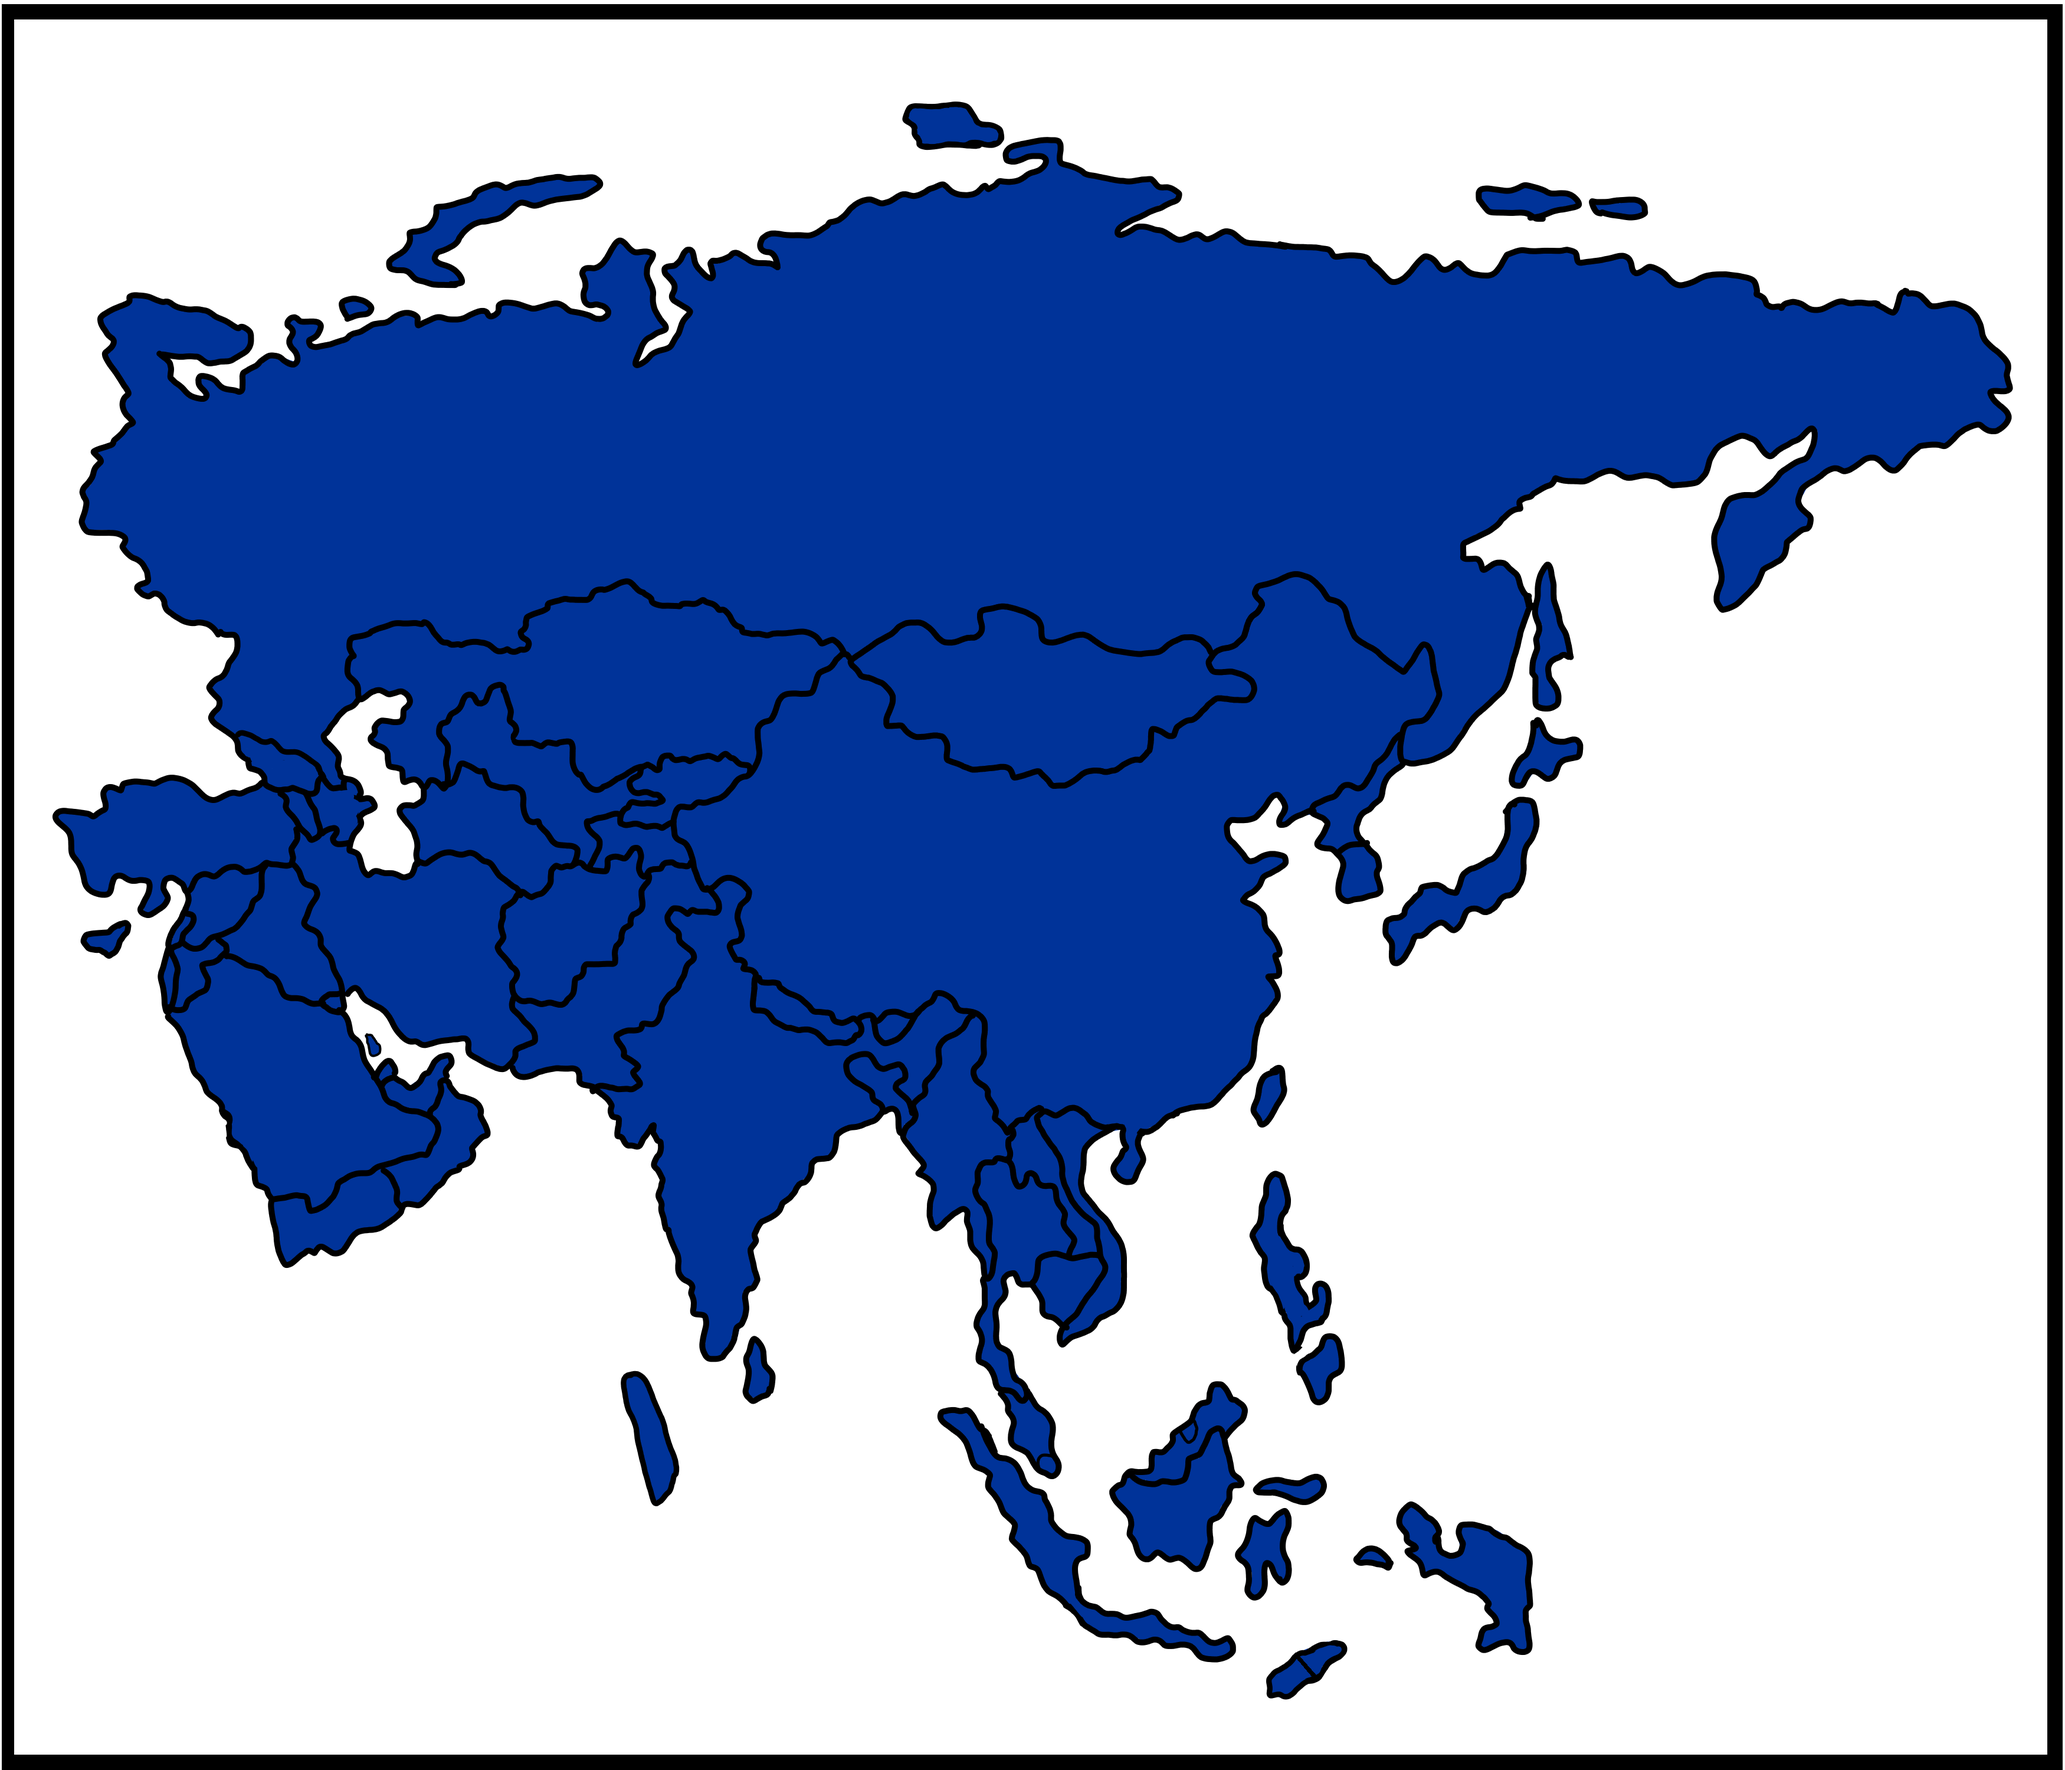
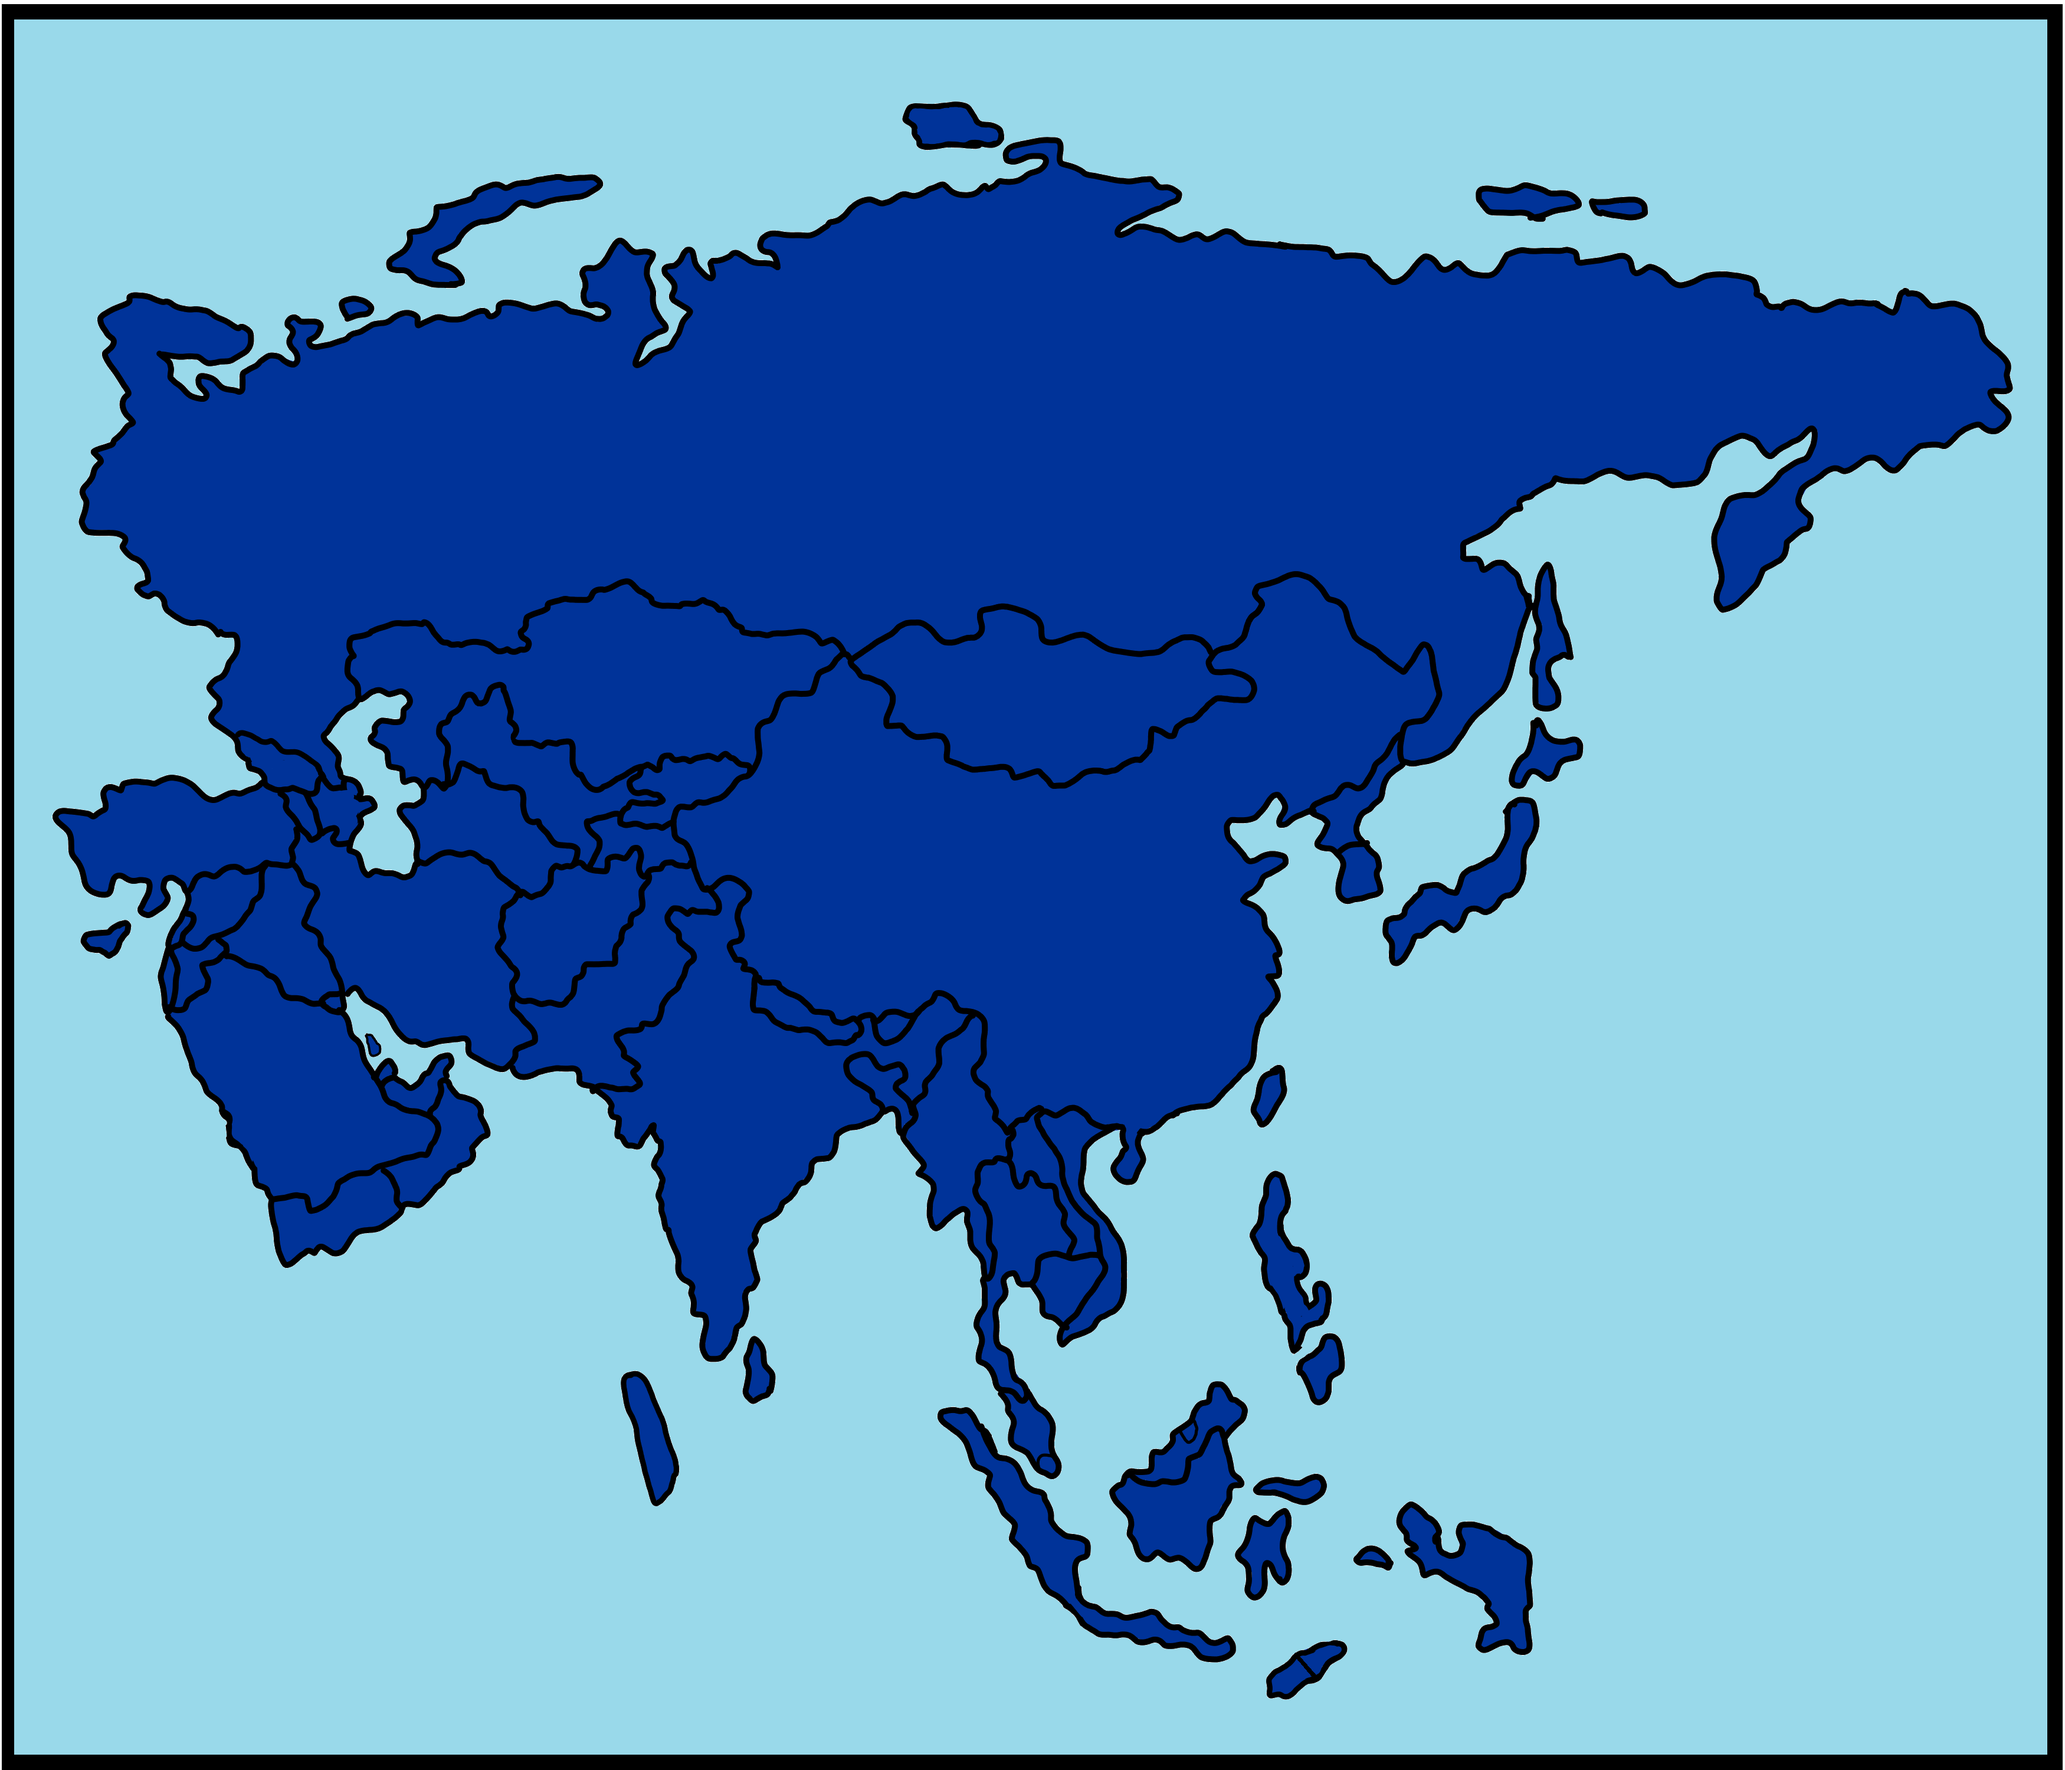
Fill continents background with blue color

diff --git a/game.py b/game.py
@@ -21,6 +21,7 @@ class Game:
         self.isMultiplayer = False
         self.SCREEN_WIDTH = 1280
         self.SCREEN_HEIGHT = 720
+        self.backgroundColor = (30,144,255)
         self.window = pygame.display.set_mode((self.SCREEN_WIDTH, self.SCREEN_HEIGHT))
         self.maps = ['Europe.png', 'South_America.png', 'North-America.png', 'Asia.png', 'Africa.png',
                      'Oceania.png']
@@ -484,7 +485,7 @@ class Game:
 
     def displayTimeLeft(self):
         rect_size = (260, 50)
-        rect_color = (255, 255, 255)
+        rect_color = self.backgroundColor
         rect1_position = (970, 100)
 
         # Draw the rectangle
@@ -503,11 +504,9 @@ class Game:
 
     def displayOptionData(self):
         BLACK = (0, 0, 0)
-        WHITE = (255, 255, 255)
-        big_font = pygame.font.Font(None, 34)
         font = pygame.font.Font(None, 30)
         rect_size = (340, 37)
-        rect_color = WHITE
+        rect_color = self.backgroundColor
         rect1_position = (930, 395)
         rect2_position = (930, 295)
         rect3_position = (930, 535)
@@ -542,7 +541,7 @@ class Game:
 
     def drawScoreRect(self):
         rect_size = (160, 22)
-        rect_color = (255, 255, 255)
+        rect_color = self.backgroundColor
         rect1_position = (1040, 302)
         rect2_position = (1040, 542)
 
@@ -669,7 +668,7 @@ class Game:
         pygame.image.save(cropped_surface, "state/cropped_image.png")
 
     def redrawWindow(self):
-        self.window.fill((255, 255, 255))
+        self.window.fill(self.backgroundColor)
         bg_img = pygame.image.load("state/cropped_image.png")
         self.window.blit(bg_img, (20, 20), )
 
@@ -738,7 +737,7 @@ class Game:
             yellow = (238, 224, 29)
             green = (23, 165, 23)
             blue1 = (0, 51, 153)
-            self.window.fill((255, 255, 255))
+            self.window.fill(self.backgroundColor)
             bg_img = pygame.image.load(f"assets/continents/{self.currentMap}")
             self.mapRealWidth = bg_img.get_width()
             self.mapRealHeight = bg_img.get_height()
@@ -859,7 +858,7 @@ class Game:
                 self.cap.release()
                 cv2.destroyAllWindows()
             if len(self.correctOptions) == self.getAllOptionsOfTheContinent():
-                self.window.fill((255, 255, 255))
+                self.window.fill(self.backgroundColor)
                 bg_img = pygame.image.load(f"assets/menu/8.jpg")
                 bg_img = pygame.transform.scale(bg_img, (self.SCREEN_WIDTH, self.SCREEN_HEIGHT))
                 win = "You win!"
